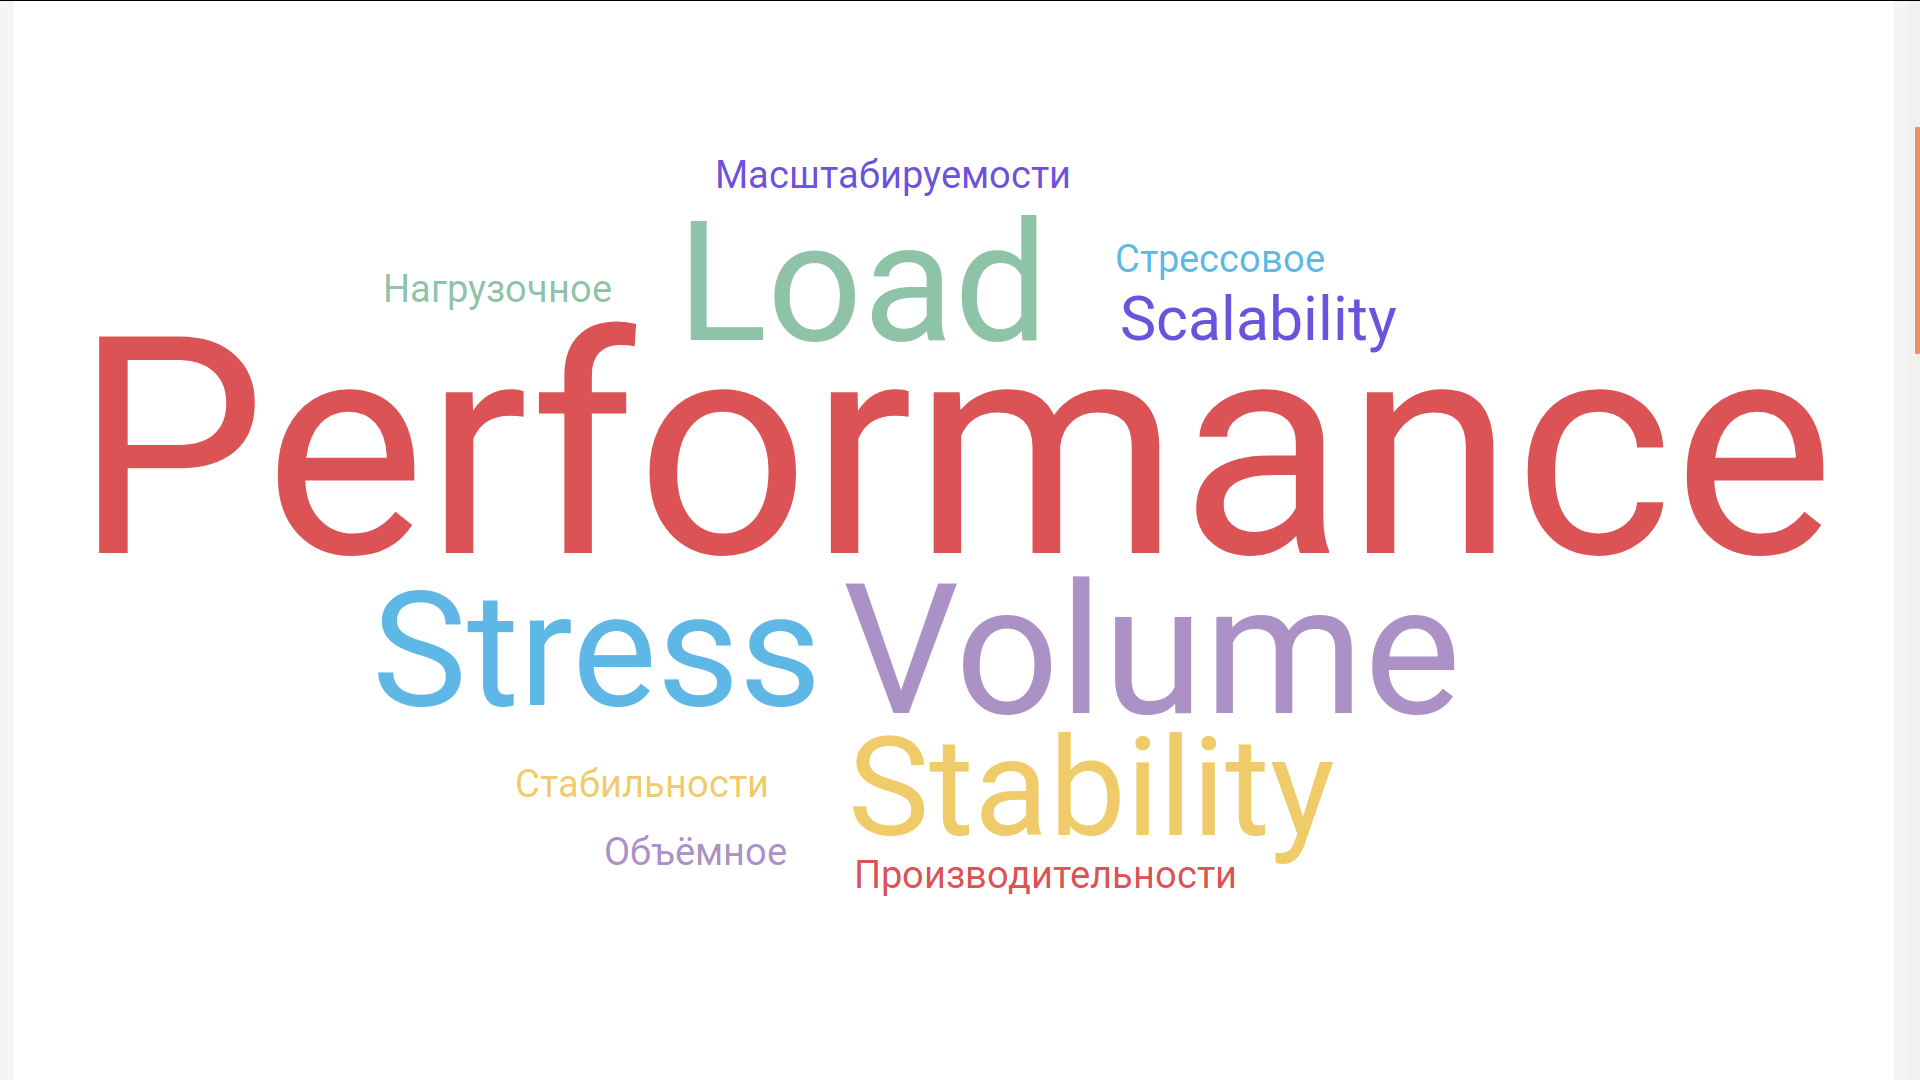
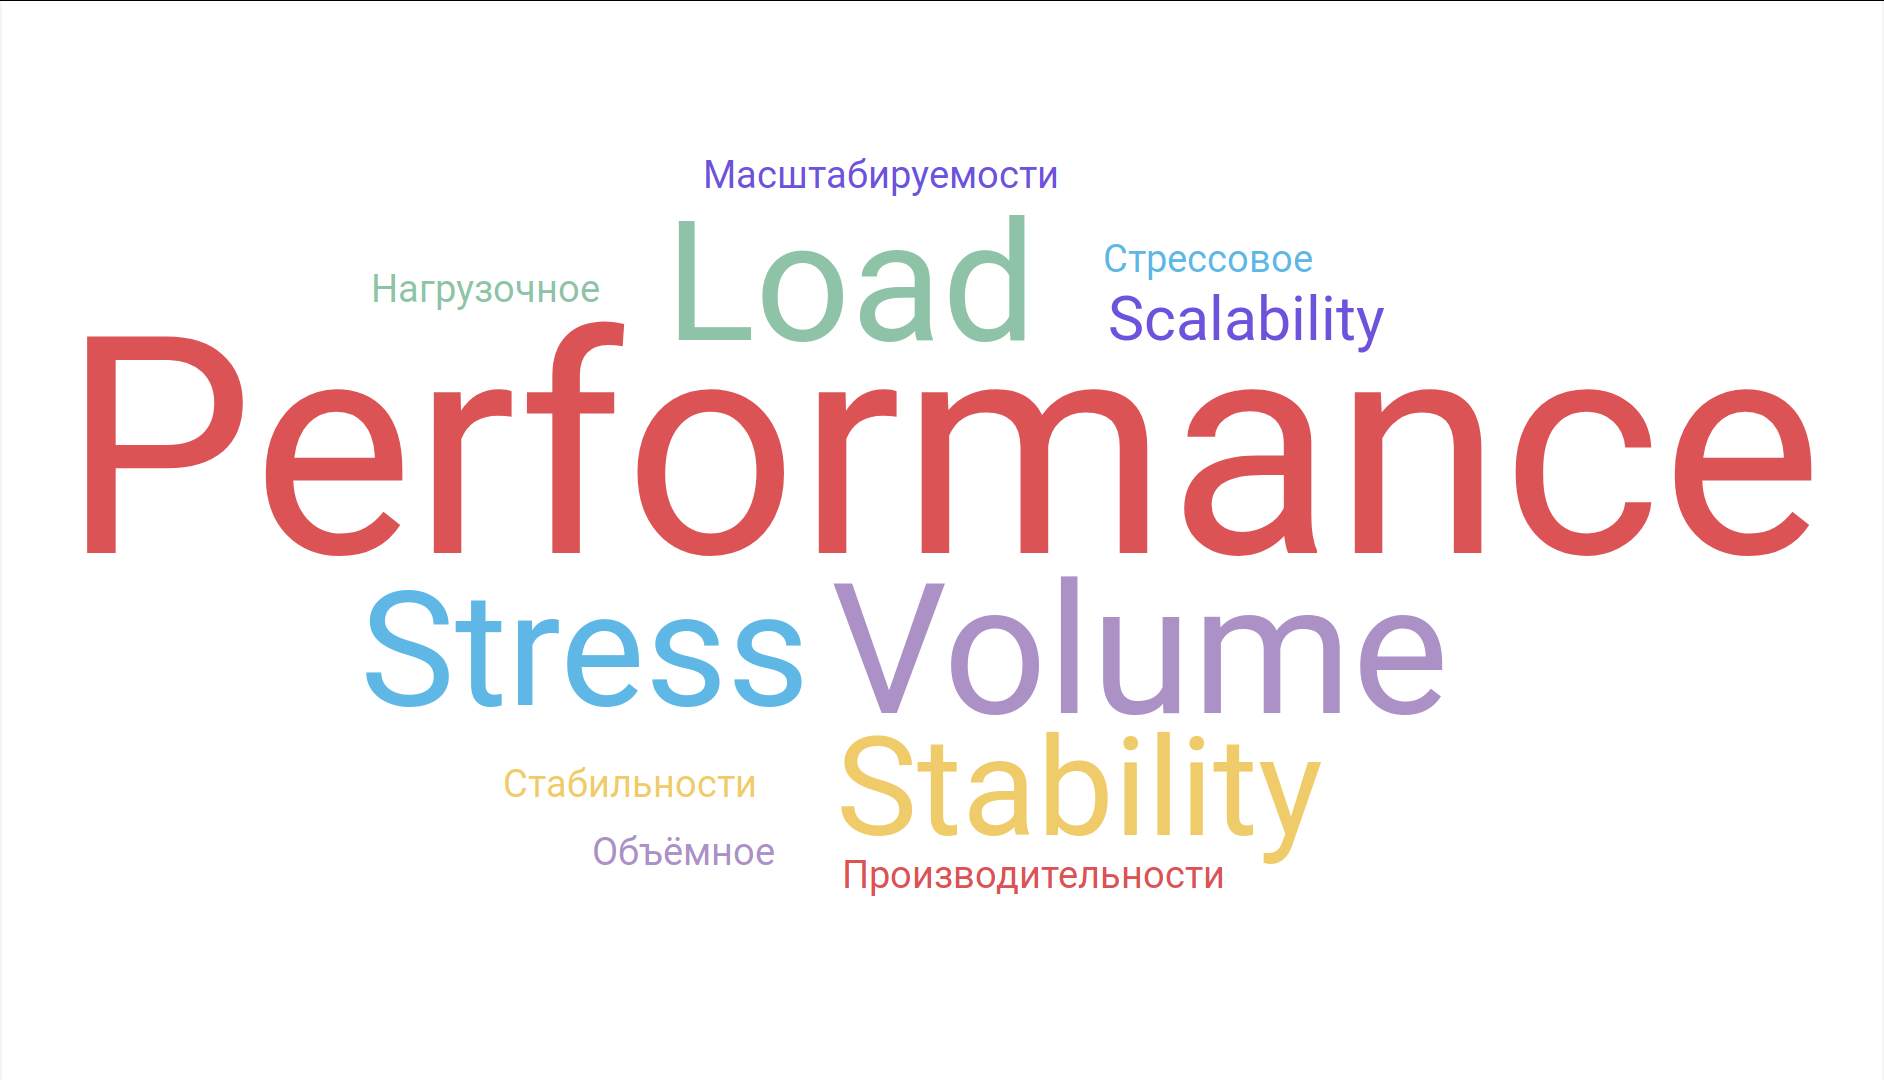
internet termins

diff --git a/docs/performance_test_kinds.html b/docs/performance_test_kinds.html
@@ -211,15 +211,27 @@
 
 	<section class="clear slide"><div>
 		<figure>
-			<img class="h cover" src="images/1/termin.rus.png">
+			<img class="h cover" src="images/1/internet.png">
 		</figure>
 	</div></section>
 
 	<section class="clear slide"><div>
 		<figure>
-			<img class="h cover" src="images/1/termin.all.png">
+			<img class="h cover" src="images/1/termin.all.yandex.png">
 		</figure>
 	</div></section>
+
+	<section class="clear slide"><div>
+		<figure>
+			<img class="h cover" src="images/1/termin.all.google.png">
+		</figure>
+	</div></section>
+
+	<section class="clear slide"><div>
+		<figure>
+			<img class="h cover" src="images/1/termin.all.yandex.google.png">
+		</figure>
+	</div></section>	
 
 	<section class="clear yellow slide"><div>
 		<h2 class="small shout">Виды<br/>тестирования производительности</h2>
